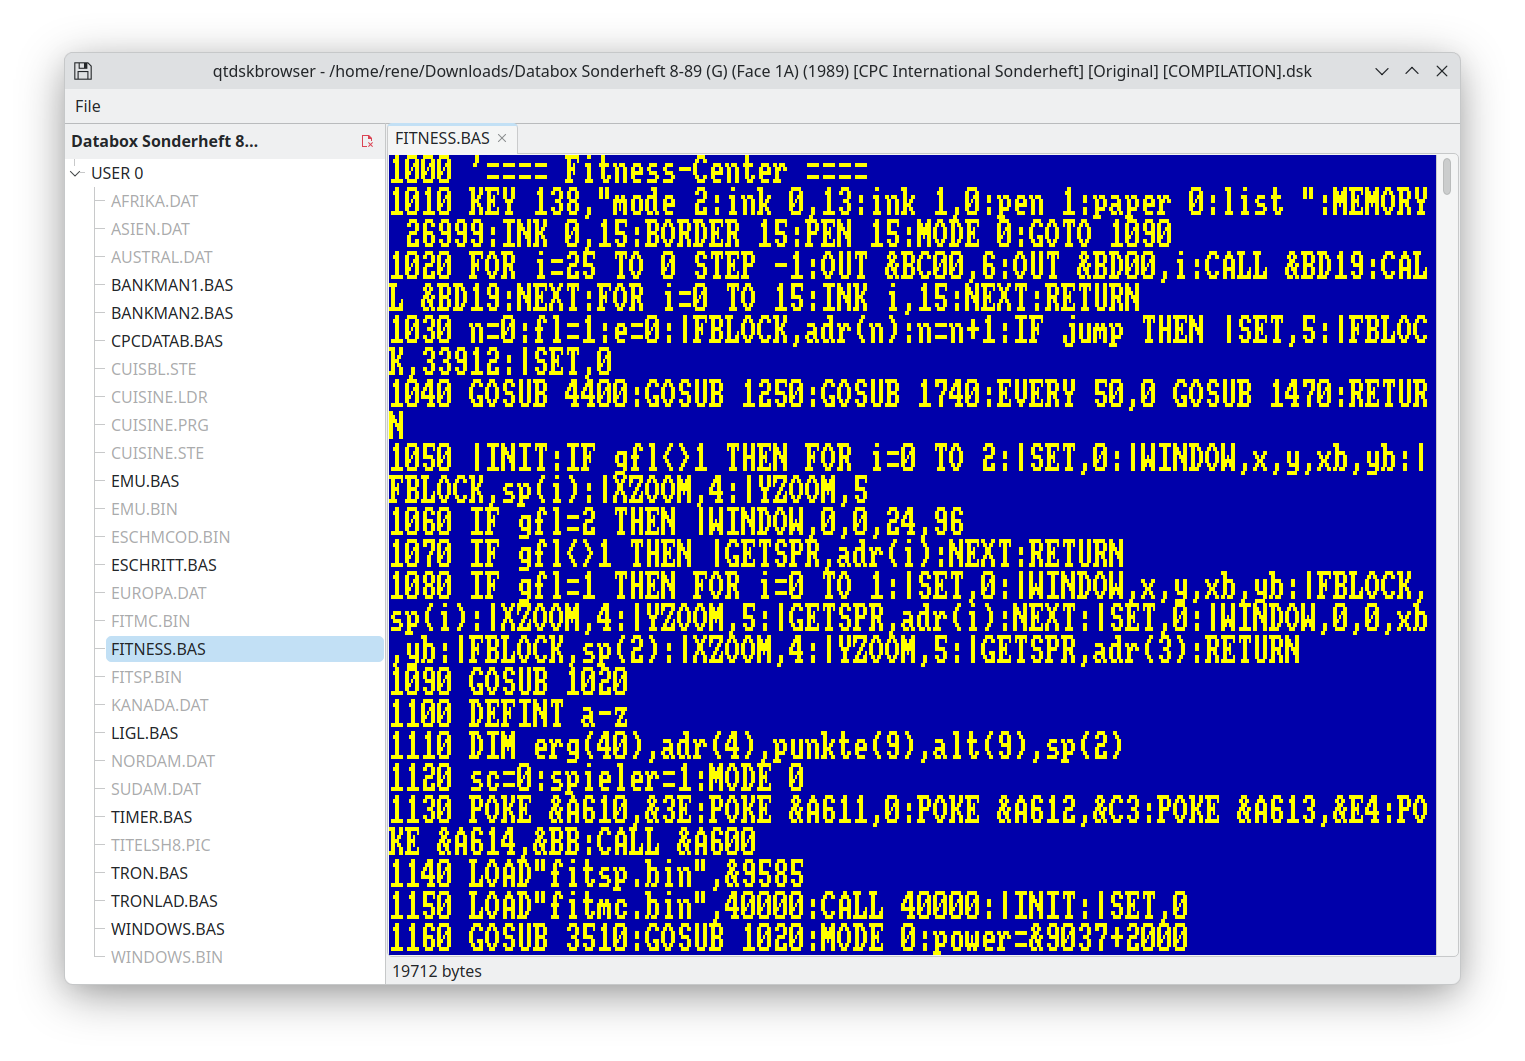
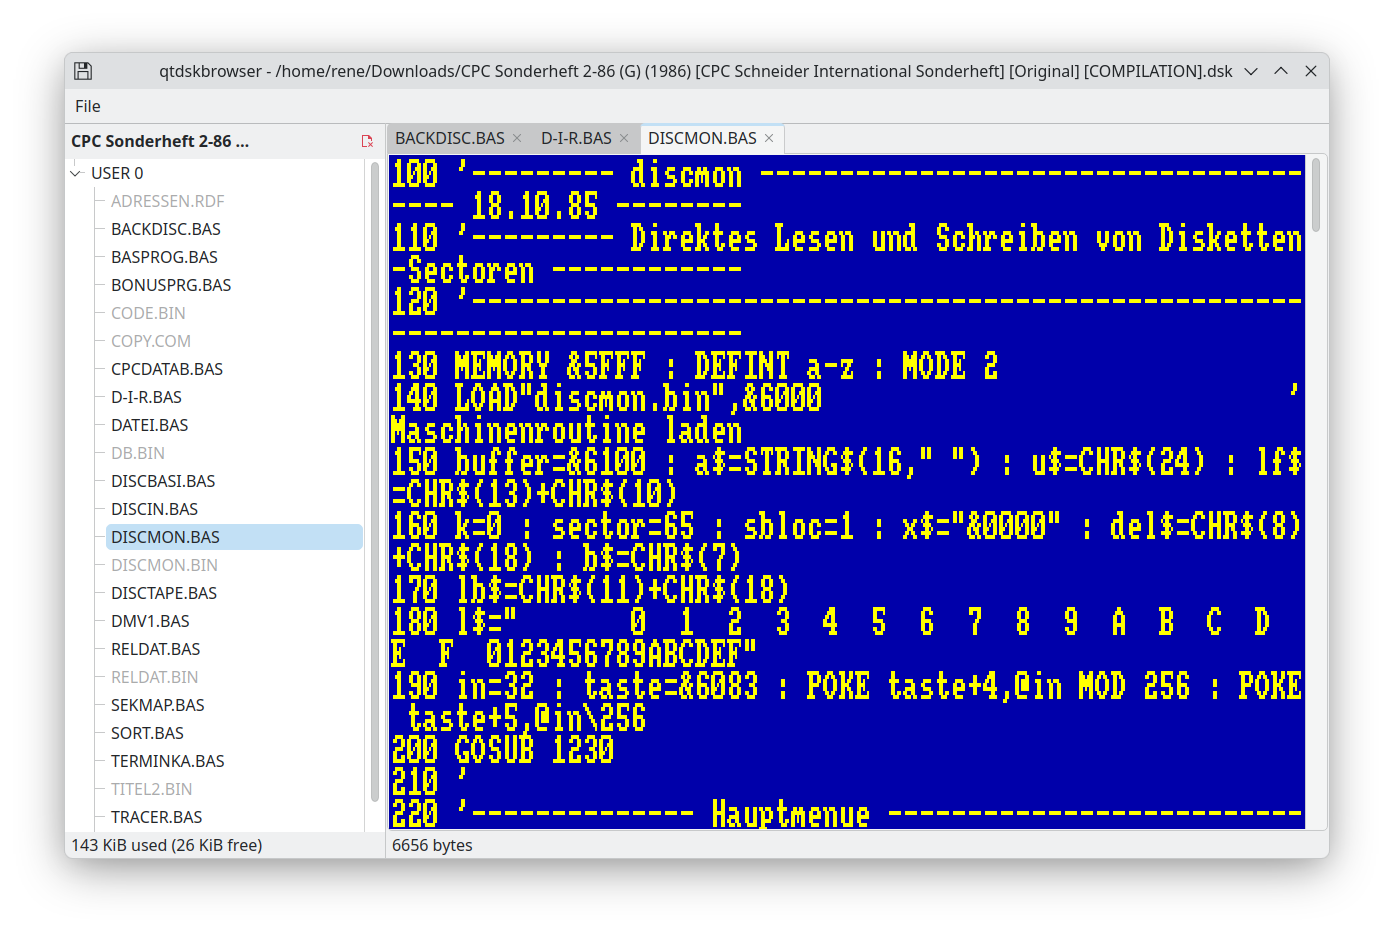
Show used/free disk space

Changed region(s): [[0.0308, 0.062, 0.9562, 0.9305]]

diff --git a/main.cpp b/main.cpp
@@ -146,6 +146,17 @@ QString statusTextForFile(const DskFileEntry &file)
     return text;
 }
 
+// The text shown in the status bar below the directory tree: how much of the
+// disk's capacity is occupied by its files, in KiB (rounded up, so even a
+// few used bytes show as at least 1 KB rather than misleadingly as 0).
+QString diskUsageText(const DskImage &image)
+{
+    quint32 usedKb = (image.usedSpace() + 1023) / 1024;
+    quint32 totalKb = (image.totalCapacity() + 1023) / 1024;
+    quint32 freeKb = totalKb - usedKb;
+    return QString("%1 KiB used (%2 KiB free)").arg(usedKb).arg(freeKb);
+}
+
 } // namespace
 
 int main(int argc, char *argv[])
@@ -213,12 +224,19 @@ int main(int argc, char *argv[])
     tree->setEditTriggers(QAbstractItemView::NoEditTriggers);
     new RowHoverHighlighter(tree);
 
+    // A status bar below the tree, showing how much of the disk's capacity
+    // is used; visible only while a disk image is actually open.
+    QLabel *diskUsageLabel = new QLabel;
+    diskUsageLabel->setContentsMargins(6, 2, 6, 2);
+    diskUsageLabel->setVisible(false);
+
     QWidget *navPanel = new QWidget;
     QVBoxLayout *navPanelLayout = new QVBoxLayout(navPanel);
     navPanelLayout->setContentsMargins(0, 0, 0, 0);
     navPanelLayout->setSpacing(0);
     navPanelLayout->addWidget(navHeader);
     navPanelLayout->addWidget(tree, 1);
+    navPanelLayout->addWidget(diskUsageLabel);
 
     // Right: the opened BAS files, grouped in tabs - like an editor area.
     QTabWidget *tabs = new QTabWidget;
@@ -261,7 +279,7 @@ int main(int argc, char *argv[])
 
     static DskImage currentImage;
 
-    auto closeFile = [outerStack, placeholder, tabs, fileNameLabel, &window]() {
+    auto closeFile = [outerStack, placeholder, tabs, fileNameLabel, diskUsageLabel, &window]() {
         while (tabs->count() > 0) {
             QWidget *page = tabs->widget(0);
             tabs->removeTab(0);
@@ -270,6 +288,7 @@ int main(int argc, char *argv[])
         currentImage = DskImage();
         fileNameLabel->clear();
         fileNameLabel->setToolTip(QString());
+        diskUsageLabel->setVisible(false);
         outerStack->setCurrentWidget(placeholder);
         window.setWindowTitle("qtdskbrowser");
     };
@@ -374,7 +393,7 @@ int main(int argc, char *argv[])
         menu.exec(tree->viewport()->mapToGlobal(pos));
     });
 
-    auto openFile = [&window, tree, outerStack, splitter, tabs, fileNameLabel](const QString &filePath) {
+    auto openFile = [&window, tree, outerStack, splitter, tabs, fileNameLabel, diskUsageLabel](const QString &filePath) {
         QFile file(filePath);
         if (!file.open(QIODevice::ReadOnly)) {
             QMessageBox::warning(&window, "qtdskbrowser", "Could not open file:\n" + filePath);
@@ -402,6 +421,8 @@ int main(int argc, char *argv[])
 
         currentImage = std::move(image);
         showDirectory(tree, currentImage);
+        diskUsageLabel->setText(diskUsageText(currentImage));
+        diskUsageLabel->setVisible(true);
         outerStack->setCurrentWidget(splitter);
         window.setWindowTitle("qtdskbrowser - " + filePath);
     };

diff --git a/dskimage.h b/dskimage.h
@@ -28,6 +28,19 @@ public:
     quint8 sideCount() const { return m_sideCount; }
     const QVector<DskFileEntry> &files() const { return m_files; }
 
+    // Total disk capacity available to files, in bytes: the data area minus
+    // the directory itself (always its first 2 KiB: 64 entries of 32 bytes
+    // each), matching what AMSDOS's CAT reports (e.g. 178 KB, not 180 KB, for
+    // the "Data" format).
+    quint32 totalCapacity() const
+    {
+        static const quint32 directoryBytes = 2048;
+        return static_cast<quint32>(m_dataArea.size()) - directoryBytes;
+    }
+
+    // Space already allocated to files, in bytes.
+    quint32 usedSpace() const;
+
     // Reconstructs the content of files().at(index) by following its allocation
     // blocks, with a leading AMSDOS header stripped off if one is present. If
     // isTokenizedBasic is given, it is set to whether the AMSDOS header marks

diff --git a/dskimage.cpp b/dskimage.cpp
@@ -235,6 +235,14 @@ QByteArray DskImage::fileContent(int index, bool *isTokenizedBasic) const
     return content;
 }
 
+quint32 DskImage::usedSpace() const
+{
+    quint32 used = 0;
+    for (const QVector<quint8> &blocks : m_fileBlocks)
+        used += static_cast<quint32>(blocks.size()) * 1024;
+    return used;
+}
+
 QByteArray DskImage::trackData(int trackNumber, int side) const
 {
     for (const Track &track : m_tracks) {
